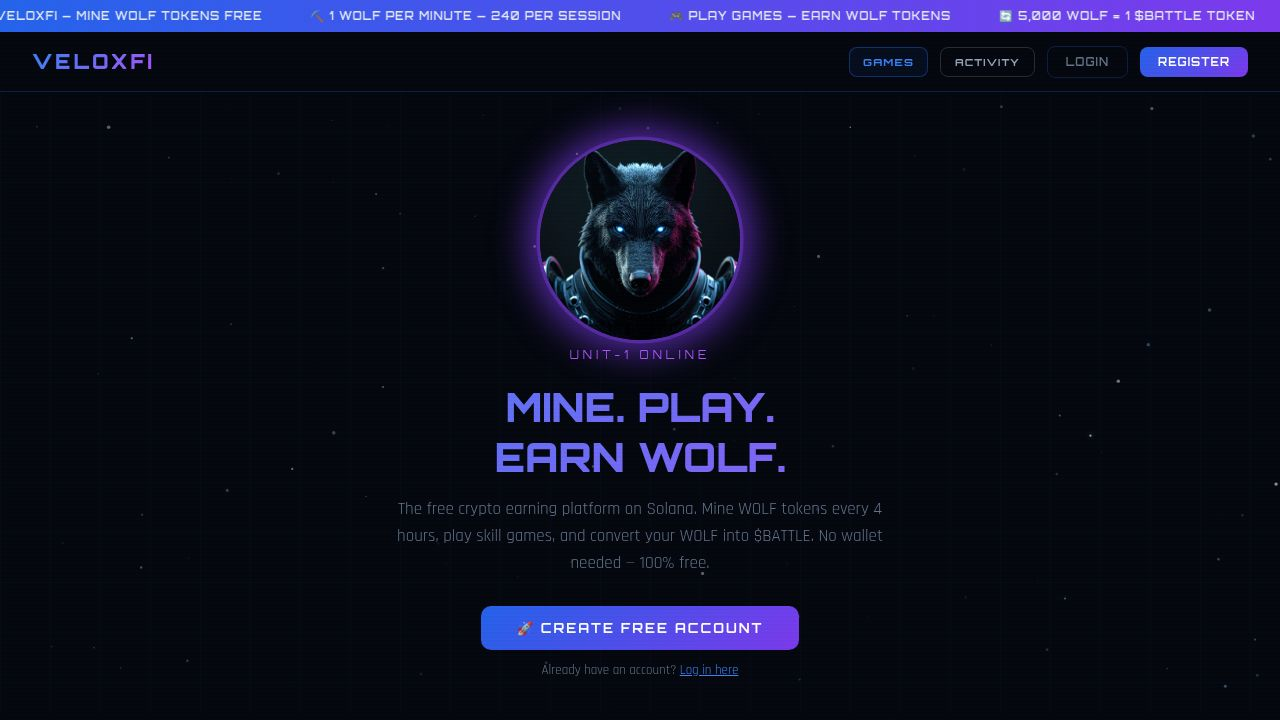
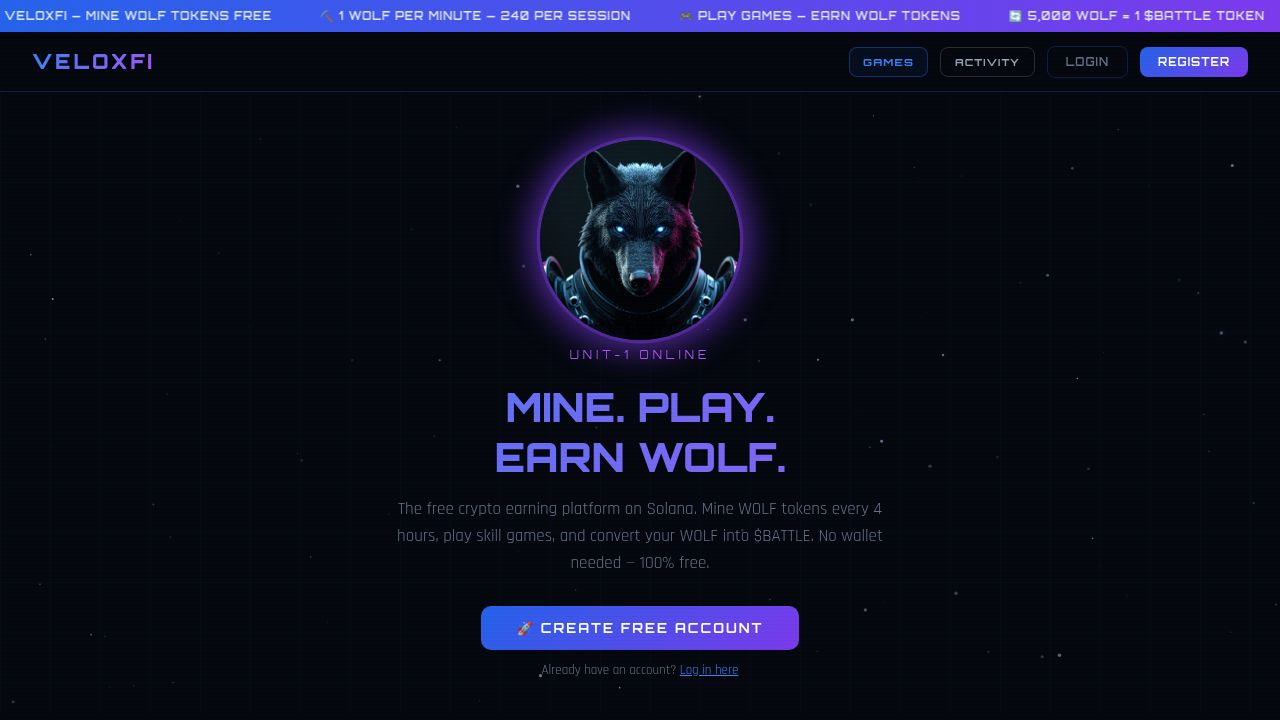
Add tracking for game sessions and player progress
Introduce a new database table for game sessions to record plays and earned WOLF. Update game earn endpoints to log session data, and modify the profile API to aggregate all-time and daily game activity for display. Enhance the frontend to show real-time game statistics and mission progress, including a new mission for Battle Tetris.

Replit-Commit-Author: Agent
Replit-Commit-Session-Id: 9197b3d8-1940-4419-9024-e914b1135912
Replit-Commit-Checkpoint-Type: full_checkpoint
Replit-Commit-Event-Id: 107980af-9032-48c8-af9d-23da2b1b3505
Replit-Commit-Screenshot-Url: https://storage.googleapis.com/screenshot-production-us-central1/6c4c4c1a-6a65-45a2-8588-0d2f4d2c8379/9197b3d8-1940-4419-9024-e914b1135912/kEkjwQp
Replit-Helium-Checkpoint-Created: true

Changed region(s): [[0.25, 0.0, 0.75, 0.0306], [0.7812, 0.0, 1.0, 0.0306], [0.0, 0.0, 0.2188, 0.0306]]

diff --git a/artifacts/api-server/src/routes/veloxfi-battles.ts b/artifacts/api-server/src/routes/veloxfi-battles.ts
@@ -1,6 +1,6 @@
 import { Router, type Request, type Response, type NextFunction } from "express";
 import { db } from "@workspace/db";
-import { veloxfiUsers, veloxfiBattles, veloxfiAchievements, veloxfiMissions, veloxfiActivity } from "@workspace/db/schema";
+import { veloxfiUsers, veloxfiBattles, veloxfiAchievements, veloxfiMissions, veloxfiActivity, veloxfiGameSessions } from "@workspace/db/schema";
 import { eq, desc, sql, gte, and } from "drizzle-orm";
 import { getSharedCoin, isSharedCacheUsable } from "../lib/coinCache";
 import { fetchFromBinance } from "../lib/binanceFallback";
@@ -398,6 +398,44 @@ router.get("/veloxfi/profile", requireAuth as any, async (req: any, res) => {
           m1Rewarded: false, m2Rewarded: false, m3Rewarded: false, m4Rewarded: false,
         };
 
+    // All-time game activity per game (plays + wolf earned)
+    const gameActivityRows = await db
+      .select({
+        game:      veloxfiGameSessions.game,
+        plays:     sql<number>`count(*)::int`,
+        totalWolf: sql<number>`coalesce(sum(${veloxfiGameSessions.wolfEarned}), 0)::int`,
+      })
+      .from(veloxfiGameSessions)
+      .where(eq(veloxfiGameSessions.username, user.username))
+      .groupBy(veloxfiGameSessions.game);
+
+    // Today's game plays for mission progress
+    const todayMidnight = new Date();
+    todayMidnight.setUTCHours(0, 0, 0, 0);
+    const todayGameRows = await db
+      .select({
+        game:  veloxfiGameSessions.game,
+        plays: sql<number>`count(*)::int`,
+      })
+      .from(veloxfiGameSessions)
+      .where(and(
+        eq(veloxfiGameSessions.username, user.username),
+        gte(veloxfiGameSessions.createdAt, todayMidnight),
+      ))
+      .groupBy(veloxfiGameSessions.game);
+
+    const gameActivity: Record<string, { plays: number; totalWolf: number }> = {};
+    gameActivityRows.forEach(r => { gameActivity[r.game] = { plays: r.plays, totalWolf: r.totalWolf }; });
+
+    const todayByGame: Record<string, number> = {};
+    todayGameRows.forEach(r => { todayByGame[r.game] = r.plays; });
+
+    const gameMissions = {
+      rocketMiner:  todayByGame['rocket-miner']  || 0,
+      snake:        todayByGame['crypto-snake']   || 0,
+      battleTetris: todayByGame['battle-tetris']  || 0,
+    };
+
     const totalBattles = stats?.totalBattles || 0;
     const totalWins    = stats?.totalWins    || 0;
     const totalLosses  = stats?.totalLosses  || 0;
@@ -432,6 +470,8 @@ router.get("/veloxfi/profile", requireAuth as any, async (req: any, res) => {
       battles,
       achievements: achievementRows.map(a => ({ id: a.achievementId, earnedAt: a.earnedAt })),
       missions,
+      gameActivity,
+      gameMissions,
     });
   } catch (e) {
     console.error("veloxfi/profile GET error:", e);

diff --git a/artifacts/veloxfi/index.html b/artifacts/veloxfi/index.html
@@ -3729,10 +3729,11 @@ function showAchievementToasts(ids) {
 
 // ── Daily mission definitions (frontend) ──────────
 const MISSION_DEFS_FE = [
-  { id:'m1', icon:'⛏️', title:'Mine Today',         sub:'Complete a mining session today',       field:'miningToday',      target:1, rewardField:'m1Rewarded', reward:10 },
-  { id:'m2', icon:'🚀', title:'Play Rocket Miner',  sub:'Play one Rocket Miner game today',      field:'rocketMinerPlayed',target:1, rewardField:'m2Rewarded', reward:5  },
+  { id:'m1', icon:'⛏️', title:'Mine Today',         sub:'Complete a mining session today',       field:'miningToday',       target:1, rewardField:'m1Rewarded', reward:10 },
+  { id:'m2', icon:'🚀', title:'Play Rocket Miner',  sub:'Play one Rocket Miner game today',      field:'rocketMinerPlayed', target:1, rewardField:'m2Rewarded', reward:5  },
   { id:'m3', icon:'🐍', title:'Play Crypto Snake',  sub:'Play one Crypto Snake game today',      field:'snakePlayed',       target:1, rewardField:'m3Rewarded', reward:5  },
-  { id:'m4', icon:'⚔️', title:'Play a Battle',       sub:'Start any battle today',               field:'battlesPlayed',     target:1, rewardField:'m4Rewarded', reward:5  },
+  { id:'m6', icon:'🧱', title:'Play Battle Tetris', sub:'Play one Battle Tetris game today',     field:'battleTetrisPlayed',target:1, rewardField:'m6Rewarded', reward:5  },
+  { id:'m4', icon:'⚔️', title:'Play a Battle',      sub:'Start any battle today',               field:'battlesPlayed',     target:1, rewardField:'m4Rewarded', reward:5  },
   { id:'m5', icon:'🎯', title:'Win a Battle',        sub:'Win any battle today',                  field:'battlesWon',        target:1, rewardField:'m5Rewarded', reward:20 },
 ];
 
@@ -5643,13 +5644,15 @@ async function loadProfile() {
 
     // Missions — build enriched data object with computed fields
     const rawMissions = d.missions || {};
+    const gm = d.gameMissions || {};
     const miningToday = miningStart && new Date(miningStart).toDateString() === new Date().toDateString() ? 1 : 0;
     const battlesWonToday = rawMissions.battlesWon || 0;
     const missions = {
       ...rawMissions,
       miningToday,
-      rocketMinerPlayed: rawMissions.rocketMinerPlayed || 0,
-      snakePlayed:       rawMissions.snakePlayed       || 0,
+      rocketMinerPlayed: gm.rocketMiner    || 0,
+      snakePlayed:       gm.snake          || 0,
+      battleTetrisPlayed:gm.battleTetris   || 0,
       battlesPlayed:     Math.min(rawMissions.battlesPlayed || 0, 1),
       battlesWon:        battlesWonToday,
     };
@@ -5799,21 +5802,21 @@ async function loadProfile() {
           <div class="dash-game-info"><div class="dash-game-name">BATTLE PREDICTION</div><div class="dash-game-sub">${d.stats.totalBattles} played · ${d.stats.totalWins} wins</div></div>
           <div class="dash-game-stats"><div class="dash-game-stat-val">${d.stats.totalTokens}</div><div class="dash-game-stat-label">$BATTLE</div></div>
         </div>
-        <div class="dash-game-row soon">
+        ${(()=>{const rm=d.gameActivity?.['rocket-miner']||{plays:0,totalWolf:0};return`<div class="dash-game-row${rm.plays>0?'':' soon'}">
           <div class="dash-game-icon">🚀</div>
-          <div class="dash-game-info"><div class="dash-game-name">ROCKET MINER</div><div class="dash-game-sub">Arcade shooter</div></div>
-          <div class="dash-game-stats"><div class="dash-game-stat-val" style="color:#334155">—</div><div class="dash-game-stat-label">WOLF</div></div>
-        </div>
-        <div class="dash-game-row soon">
+          <div class="dash-game-info"><div class="dash-game-name">ROCKET MINER</div><div class="dash-game-sub">${rm.plays>0?rm.plays+' game'+(rm.plays!==1?'s':'')+' played':'No games yet'}</div></div>
+          <div class="dash-game-stats"><div class="dash-game-stat-val"${rm.plays>0?'':' style="color:#334155"'}>${rm.plays>0?rm.totalWolf.toLocaleString():'—'}</div><div class="dash-game-stat-label">WOLF</div></div>
+        </div>`;})()}
+        ${(()=>{const cs=d.gameActivity?.['crypto-snake']||{plays:0,totalWolf:0};return`<div class="dash-game-row${cs.plays>0?'':' soon'}">
           <div class="dash-game-icon">🐍</div>
-          <div class="dash-game-info"><div class="dash-game-name">CRYPTO SNAKE</div><div class="dash-game-sub">Coming soon</div></div>
-          <div class="dash-game-stats"><div class="dash-game-stat-val" style="color:#334155">—</div><div class="dash-game-stat-label">WOLF</div></div>
-        </div>
-        <div class="dash-game-row soon">
+          <div class="dash-game-info"><div class="dash-game-name">CRYPTO SNAKE</div><div class="dash-game-sub">${cs.plays>0?cs.plays+' game'+(cs.plays!==1?'s':'')+' played':'No games yet'}</div></div>
+          <div class="dash-game-stats"><div class="dash-game-stat-val"${cs.plays>0?'':' style="color:#334155"'}>${cs.plays>0?cs.totalWolf.toLocaleString():'—'}</div><div class="dash-game-stat-label">WOLF</div></div>
+        </div>`;})()}
+        ${(()=>{const bt=d.gameActivity?.['battle-tetris']||{plays:0,totalWolf:0};return`<div class="dash-game-row${bt.plays>0?'':' soon'}">
           <div class="dash-game-icon">🧱</div>
-          <div class="dash-game-info"><div class="dash-game-name">BATTLE TETRIS</div><div class="dash-game-sub">Coming soon</div></div>
-          <div class="dash-game-stats"><div class="dash-game-stat-val" style="color:#334155">—</div><div class="dash-game-stat-label">WOLF</div></div>
-        </div>
+          <div class="dash-game-info"><div class="dash-game-name">BATTLE TETRIS</div><div class="dash-game-sub">${bt.plays>0?bt.plays+' game'+(bt.plays!==1?'s':'')+' played':'No games yet'}</div></div>
+          <div class="dash-game-stats"><div class="dash-game-stat-val"${bt.plays>0?'':' style="color:#334155"'}>${bt.plays>0?bt.totalWolf.toLocaleString():'—'}</div><div class="dash-game-stat-label">WOLF</div></div>
+        </div>`;})()}
         <div class="dash-game-row soon">
           <div class="dash-game-icon">🐺</div>
           <div class="dash-game-info"><div class="dash-game-name">WOLF RUN</div><div class="dash-game-sub">Coming soon</div></div>

diff --git a/lib/db/src/schema/veloxfi-game-sessions.ts b/lib/db/src/schema/veloxfi-game-sessions.ts
@@ -1,0 +1,9 @@
+import { pgTable, serial, varchar, integer, timestamp } from "drizzle-orm/pg-core";
+
+export const veloxfiGameSessions = pgTable("veloxfi_game_sessions", {
+  id:         serial("id").primaryKey(),
+  username:   varchar("username", { length: 50 }).notNull(),
+  game:       varchar("game", { length: 30 }).notNull(), // 'rocket-miner' | 'crypto-snake' | 'battle-tetris'
+  wolfEarned: integer("wolf_earned").notNull().default(0),
+  createdAt:  timestamp("created_at").notNull().defaultNow(),
+});

diff --git a/artifacts/api-server/src/routes/veloxfi-auth.ts b/artifacts/api-server/src/routes/veloxfi-auth.ts
@@ -1,6 +1,6 @@
 import { Router, type Request, type Response, type NextFunction } from "express";
 import { db } from "@workspace/db";
-import { veloxfiUsers, veloxfiClaims } from "@workspace/db/schema";
+import { veloxfiUsers, veloxfiClaims, veloxfiGameSessions } from "@workspace/db/schema";
 import { eq, sql } from "drizzle-orm";
 import { updateAndCheckMissions } from "./veloxfi-battles";
 import bcrypt from "bcryptjs";
@@ -329,7 +329,6 @@ router.post("/veloxfi/game/rocket-miner/earn", requireAuth as any, async (req: a
       res.status(400).json({ error: "No WOLF earned." }); return;
     }
     const wolfEarned = Math.min(Math.floor(raw), ROCKET_MINER_MAX_WOLF);
-    // Atomic increment — avoids read-then-write race conditions
     const [updated] = await db.update(veloxfiUsers)
       .set({ wolf: sql`coalesce(wolf, 0) + ${wolfEarned}` })
       .where(eq(veloxfiUsers.username, user.username))
@@ -337,6 +336,7 @@ router.post("/veloxfi/game/rocket-miner/earn", requireAuth as any, async (req: a
     if (!updated) {
       res.status(500).json({ error: "Failed to update balance." }); return;
     }
+    await db.insert(veloxfiGameSessions).values({ username: user.username, game: 'rocket-miner', wolfEarned });
     res.json({ ok: true, wolfEarned, newWolfBalance: updated.wolf });
   } catch (e) {
     console.error("rocket-miner/earn error:", e);
@@ -376,6 +376,7 @@ router.post("/veloxfi/game/battle-tetris/earn", requireAuth as any, async (req: 
     if (!updated) {
       res.status(500).json({ error: "Failed to update balance." }); return;
     }
+    await db.insert(veloxfiGameSessions).values({ username: user.username, game: 'battle-tetris', wolfEarned });
     res.json({ ok: true, wolfEarned, newWolfBalance: updated.wolf });
   } catch (e) {
     console.error("battle-tetris/earn error:", e);
@@ -399,6 +400,7 @@ router.post("/veloxfi/game/crypto-snake/earn", requireAuth as any, async (req: a
     if (!updated) {
       res.status(500).json({ error: "Failed to update balance." }); return;
     }
+    await db.insert(veloxfiGameSessions).values({ username: user.username, game: 'crypto-snake', wolfEarned });
     res.json({ ok: true, wolfEarned, newWolfBalance: updated.wolf });
   } catch (e) {
     console.error("crypto-snake/earn error:", e);

diff --git a/lib/db/src/schema/index.ts b/lib/db/src/schema/index.ts
@@ -10,3 +10,4 @@ export * from "./veloxfi-claims";
 export * from "./veloxfi-achievements";
 export * from "./veloxfi-missions";
 export * from "./veloxfi-activity";
+export * from "./veloxfi-game-sessions";